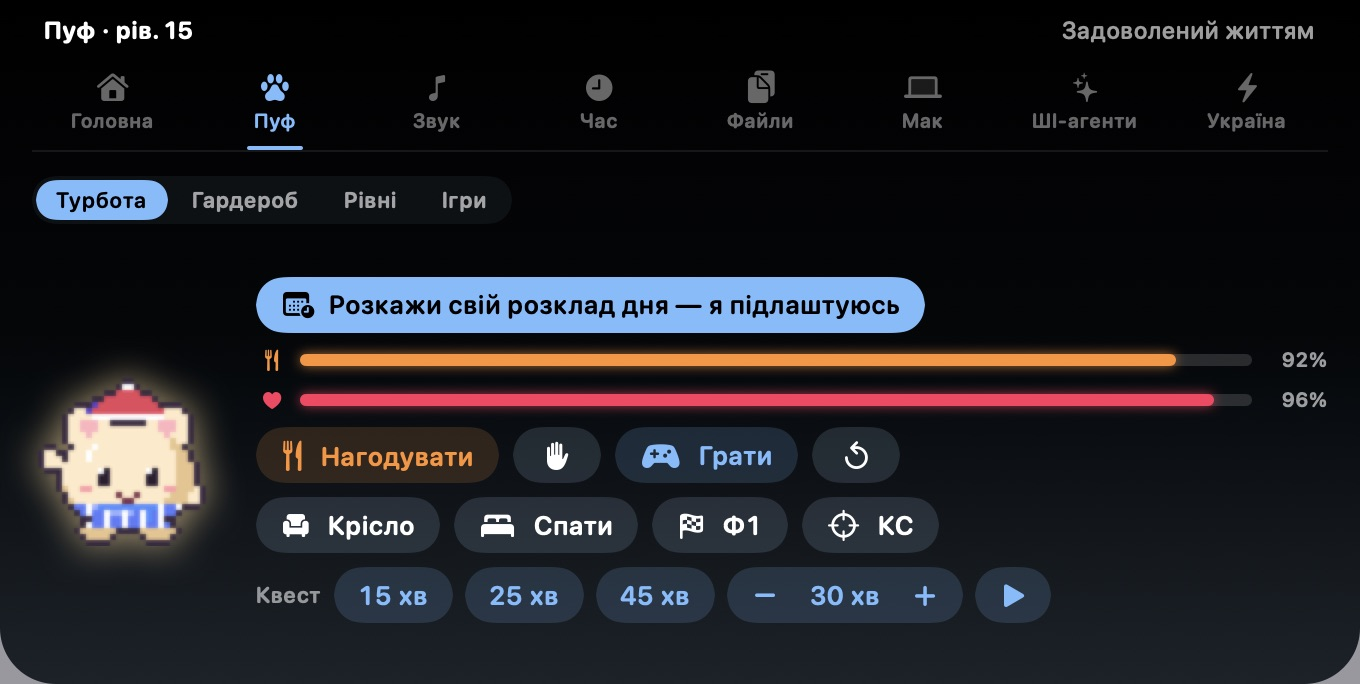
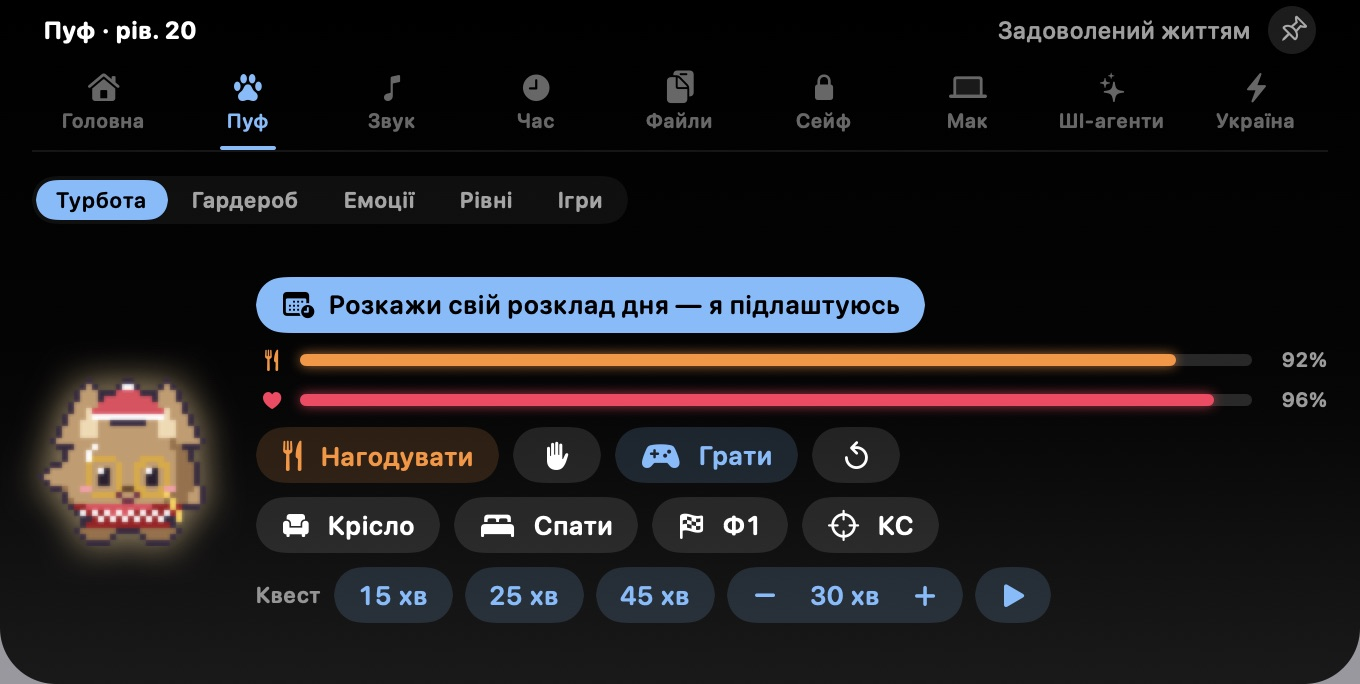
Vault section and tabs, emotions, 51 levels, a wardrobe for puffiks, holidays; new pictures

diff --git a/index.html b/index.html
@@ -132,6 +132,9 @@ kbd { font: 700 13px var(--body); color: var(--text); background: var(--raise); 
 .ua .shot { border-radius: 0 0 4.12% 4.12% / 0 0 8.19% 8.19%; overflow: hidden; background: #000; box-shadow: 0 0 0 1px var(--line); }
 .ua .shot img { display: block; width: 100%; height: auto; }
 
+/* Vault */
+.vault { background: linear-gradient(135deg, rgba(110, 180, 255, .16), rgba(70, 210, 160, .10)); grid-template-columns: minmax(0, 1.2fr) minmax(0, 1fr); }
+
 /* Privacy */
 .privacy { display: grid; grid-template-columns: minmax(0, 1fr) minmax(0, 1.3fr); gap: 32px; align-items: start; }
 .hosts { display: grid; gap: 10px; }
@@ -185,7 +188,7 @@ footer { color: var(--muted); font-size: 14px; display: flex; flex-wrap: wrap; g
     </div>
     <div class="head" style="align-items:center">
       <h1 id="title">Puff Island</h1>
-      <p class="lede" data-t="lede">Острів біля вирізу Мака, на якому живе Пуф. Наведи мишку на чубчик — і під рукою музика, таймер, календар, тривоги й графік світла.</p>
+      <p class="lede" data-t="lede">Острів біля вирізу Мака, на якому живе Пуф. Наведи мишку на чубчик — і під рукою музика, таймер, календар, сейф з картками й документами, тривоги й графік світла.</p>
     </div>
     <div class="cta">
       <a class="button" href="https://github.com/dmytromelinevskyi/Puff-releases/releases/latest/download/Puff-Island.dmg">
@@ -233,6 +236,22 @@ footer { color: var(--muted); font-size: 14px; display: flex; flex-wrap: wrap; g
     </div>
   </section>
 
+  <section aria-labelledby="vaultTitle">
+    <div class="ua vault">
+      <div class="shot"><img data-shot="vault-files" src="img/tabs/vault-files-uk.jpg" alt="Сейф на острові: зашифровані файли" width="1360" height="684" loading="lazy"></div>
+      <div class="head">
+        <span class="label" data-t="vaultLabel">Сейф</span>
+        <h2 id="vaultTitle" data-t="vaultTitle">Картки, реквізити й ключі — під рукою, але під замком</h2>
+        <ul>
+          <li><span class="dot"></span><div><b data-t="v1h">Відкривається відбитком</b><span data-t="v1p">Touch ID або пароль Мака. Сейф сам закривається за п’ять хвилин або разом з островом.</span></div></li>
+          <li><span class="dot"></span><div><b data-t="v2h">Копіюєш одним кліком</b><span data-t="v2p">Номер картки, IBAN, особовий рахунок — без пробілів і зайвого. Скопійоване не потрапляє в історію буфера.</span></div></li>
+          <li><span class="dot"></span><div><b data-t="v3h">Файли зашифровані</b><span data-t="v3p">Ключі, сертифікати й скани — під AES-256 і лише на цьому Маку. Перетягни файл на острів, а оригінал прибери в Кошик.</span></div></li>
+          <li><span class="dot"></span><div><b data-t="v4h">Не видно на скриншотах</b><span data-t="v4p">Вікно сейфа не потрапляє в скриншоти й демонстрацію екрана. CVV і PIN показуються лише після відбитка й ніколи не копіюються.</span></div></li>
+        </ul>
+      </div>
+    </div>
+  </section>
+
   <section aria-labelledby="extrasTitle">
     <div class="head">
       <span class="label" data-t="extrasLabel">Для Мака</span>
@@ -267,6 +286,9 @@ footer { color: var(--muted); font-size: 14px; display: flex; flex-wrap: wrap; g
       <div class="card"><span class="label" data-t="c4l">Файли</span><h3 data-t="c4h">Буфер, полиця, нотатки</h3><p data-t="c4p">Історія буфера обміну, полиця, куди кидаєш файли на потім, і швидкі нотатки.</p></div>
       <div class="card"><span class="label" data-t="c5l">Мак</span><h3 data-t="c5h">⌘Tab з вікнами і швидкі дії</h3><p data-t="c5p">Перемикач вікон з усіх робочих столів, пристрої, живлення, «не засинати» в один клік.</p></div>
       <div class="card"><span class="label" data-t="c6l">ШІ-агенти</span><h3 data-t="c6h">Claude і Codex на виду</h3><p data-t="c6p">Острів підсвічується, коли агент закінчив роботу або чекає на тебе.</p></div>
+      <div class="card"><span class="label" data-t="c7l">Сейф</span><h3 data-t="c7h">Картки, реквізити, документи</h3><p data-t="c7p">Комуналка, пошти, адреси, нотатки й файли — з теками, пошуком і відбитком.</p></div>
+      <div class="card"><span class="label" data-t="c8l">Гардероб</span><h3 data-t="c8h">Речі за пуфіки</h3><p data-t="c8p">Пуфіки дають за квести, дні з Пуфом, їжу й рівні. На них — 35 речей, від окулярів до реактивного ранця.</p></div>
+      <div class="card"><span class="label" data-t="c9l">Свята</span><h3 data-t="c9h">Свята й секрети</h3><p data-t="c9p">На Новий рік, Валентина, День Незалежності й Хелловін Пуф перевдягається сам. А ще є секретний образ — знайди його.</p></div>
     </div>
   </section>
 
@@ -274,7 +296,7 @@ footer { color: var(--muted); font-size: 14px; display: flex; flex-wrap: wrap; g
     <div class="head">
       <span class="label" data-t="puffLabel">Пуф</span>
       <h2 id="puffTitle" data-t="puffTitle">Пуф живе своїм життям</h2>
-      <p class="lede" data-t="puffText">Він їсть, спить, ховається під ковдру під час тривоги, слухає музику разом з тобою і росте: сорок рівнів, досягнення й гардероб.</p>
+      <p class="lede" data-t="puffText">Він їсть, спить, ховається під ковдру під час тривоги, слухає музику разом з тобою і росте: 51 рівень, 18 емоцій і гардероб, який купуєш за пуфіки.</p>
     </div>
     <div class="puffs">
       <div class="puff"><img class="px" src="img/puff-happy.png" alt=""><span data-t="m1">радіє</span></div>
@@ -285,6 +307,14 @@ footer { color: var(--muted); font-size: 14px; display: flex; flex-wrap: wrap; g
       <div class="puff"><img class="px" src="img/puff-hot.png" alt=""><span data-t="m6">Мак перегрівся</span></div>
       <div class="puff"><img class="px" src="img/puff-racing.png" alt=""><span data-t="m7">у фокусі</span></div>
       <div class="puff"><img class="px" src="img/puff-sleeping.png" alt=""><span data-t="m8">спить</span></div>
+      <div class="puff"><img class="px" src="img/puff-love.png" alt=""><span data-t="n1">закохався</span></div>
+      <div class="puff"><img class="px" src="img/puff-laughing.png" alt=""><span data-t="n2">сміється</span></div>
+      <div class="puff"><img class="px" src="img/puff-surprised.png" alt=""><span data-t="n3">здивувався</span></div>
+      <div class="puff"><img class="px" src="img/puff-posing.png" alt=""><span data-t="n4">позує для скриншота</span></div>
+      <div class="puff"><img class="px" src="img/puff-dancing.png" alt=""><span data-t="n5">танцює в п’ятницю</span></div>
+      <div class="puff"><img class="px" src="img/puff-sneezing.png" alt=""><span data-t="n6">чхає</span></div>
+      <div class="puff"><img class="px" src="img/puff-clapping.png" alt=""><span data-t="n7">аплодує Claude</span></div>
+      <div class="puff"><img class="px" src="img/puff-proud.png" alt=""><span data-t="n8">пишається</span></div>
       <div class="puff"><img class="px" src="img/look-king.png" alt=""><span data-t="l1">король</span></div>
       <div class="puff"><img class="px" src="img/look-wizard.png" alt=""><span data-t="l2">чарівник</span></div>
       <div class="puff"><img class="px" src="img/look-surfer.png" alt=""><span data-t="l3">серфер</span></div>
@@ -316,7 +346,7 @@ footer { color: var(--muted); font-size: 14px; display: flex; flex-wrap: wrap; g
     <div class="head">
       <span class="label" data-t="privLabel">Приватність</span>
       <h2 id="privacyTitle" data-t="privTitle">Твоє лишається на твоєму Маку</h2>
-      <p class="lede" data-t="privText">Улюбленець, нотатки, буфер обміну й налаштування зберігаються лише на цьому Маку. Без реєстрації, статистики й реклами. В інтернет Пуф ходить тільки сюди:</p>
+      <p class="lede" data-t="privText">Улюбленець, нотатки, буфер обміну й налаштування зберігаються лише на цьому Маку. Сейф — у Зв’язці ключів без iCloud, файли в ньому зашифровані. Без реєстрації, статистики й реклами. В інтернет Пуф ходить тільки сюди:</p>
     </div>
     <div class="hosts">
       <div class="host"><b data-t="h1h">Оновлення</b><span data-t="h1p">GitHub: чи вийшла нова версія. Про тебе нічого не передається.</span></div>
@@ -359,7 +389,7 @@ footer { color: var(--muted); font-size: 14px; display: flex; flex-wrap: wrap; g
 <script>
 const text = {
   uk: {
-    lede: "Острів біля вирізу Мака, на якому живе Пуф. Наведи мишку на чубчик — і під рукою музика, таймер, календар, тривоги й графік світла.",
+    lede: "Острів біля вирізу Мака, на якому живе Пуф. Наведи мишку на чубчик — і під рукою музика, таймер, календар, сейф з картками й документами, тривоги й графік світла.",
     download: "Завантажити для Mac", free: "Безкоштовно", signed: "Підписано Apple",
     islandLabel: "Острів", islandTitle: "Усе, що треба, — у вирізі над робочим столом",
     tabHome: "Головна", tabMusic: "Музика", tabTime: "Час", tabRates: "Курс НБУ",
@@ -370,8 +400,17 @@ const text = {
     c4l: "Файли", c4h: "Буфер, полиця, нотатки", c4p: "Історія буфера обміну, полиця, куди кидаєш файли на потім, і швидкі нотатки.",
     c5l: "Мак", c5h: "⌘Tab з вікнами і швидкі дії", c5p: "Перемикач вікон з усіх робочих столів, пристрої, живлення, «не засинати» в один клік.",
     c6l: "ШІ-агенти", c6h: "Claude і Codex на виду", c6p: "Острів підсвічується, коли агент закінчив роботу або чекає на тебе.",
+    c7l: "Сейф", c7h: "Картки, реквізити, документи", c7p: "Комуналка, пошти, адреси, нотатки й файли — з теками, пошуком і відбитком.",
+    c8l: "Гардероб", c8h: "Речі за пуфіки", c8p: "Пуфіки дають за квести, дні з Пуфом, їжу й рівні. На них — 35 речей, від окулярів до реактивного ранця.",
+    c9l: "Свята", c9h: "Свята й секрети", c9p: "На Новий рік, Валентина, День Незалежності й Хелловін Пуф перевдягається сам. А ще є секретний образ — знайди його.",
+    n1: "закохався", n2: "сміється", n3: "здивувався", n4: "позує для скриншота", n5: "танцює в п’ятницю", n6: "чхає", n7: "аплодує Claude", n8: "пишається",
+    vaultLabel: "Сейф", vaultTitle: "Картки, реквізити й ключі — під рукою, але під замком",
+    v1h: "Відкривається відбитком", v1p: "Touch ID або пароль Мака. Сейф сам закривається за п’ять хвилин або разом з островом.",
+    v2h: "Копіюєш одним кліком", v2p: "Номер картки, IBAN, особовий рахунок — без пробілів і зайвого. Скопійоване не потрапляє в історію буфера.",
+    v3h: "Файли зашифровані", v3p: "Ключі, сертифікати й скани — під AES-256 і лише на цьому Маку. Перетягни файл на острів, а оригінал прибери в Кошик.",
+    v4h: "Не видно на скриншотах", v4p: "Вікно сейфа не потрапляє в скриншоти й демонстрацію екрана. CVV і PIN показуються лише після відбитка й ніколи не копіюються.",
     puffLabel: "Пуф", puffTitle: "Пуф живе своїм життям",
-    puffText: "Він їсть, спить, ховається під ковдру під час тривоги, слухає музику разом з тобою і росте: сорок рівнів, досягнення й гардероб.",
+    puffText: "Він їсть, спить, ховається під ковдру під час тривоги, слухає музику разом з тобою і росте: 51 рівень, 18 емоцій і гардероб, який купуєш за пуфіки.",
     m1: "радіє", m2: "їсть", m3: "слухає музику", m4: "тримає Мак без сну", m5: "ховається від тривоги", m6: "Мак перегрівся", m7: "у фокусі", m8: "спить",
     l1: "король", l2: "чарівник", l3: "серфер", l4: "панда", l5: "кіберпуф", l6: "Санта", l7: "єдиноріг", l8: "дракон",
     uaLabel: "Україна", uaTitle: "Зроблено в Україні — і для України",
@@ -380,7 +419,7 @@ const text = {
     u3h: "Курс НБУ", u3p: "Будь-яка валюта на будь-який день з 1996 року, зміна за день і графік за місяць.",
     u4h: "Податки ФОП", u4p: "Пуф нагадає про єдиний податок, військовий збір і ЄСВ за п’ять днів до строку.",
     privLabel: "Приватність", privTitle: "Твоє лишається на твоєму Маку",
-    privText: "Улюбленець, нотатки, буфер обміну й налаштування зберігаються лише на цьому Маку. Без реєстрації, статистики й реклами. В інтернет Пуф ходить тільки сюди:",
+    privText: "Улюбленець, нотатки, буфер обміну й налаштування зберігаються лише на цьому Маку. Сейф — у Зв’язці ключів без iCloud, файли в ньому зашифровані. Без реєстрації, статистики й реклами. В інтернет Пуф ходить тільки сюди:",
     h1h: "Оновлення", h1p: "GitHub: чи вийшла нова версія. Про тебе нічого не передається.",
     h2h: "Тривоги", h2p: "siren.pp.ua та ubilling.net.ua: загальний список тривог. Твоя область лишається на Маку.",
     h3h: "Світло", h3p: "YASNO отримує вулицю й будинок, які ти вказав, щоб надіслати графік.",
@@ -414,7 +453,7 @@ const text = {
     x12h: "Яскравість і Bluetooth", x12p: "Клавіші яскравості керують зовнішнім монітором під мишкою. Bluetooth вимикається, поки Мак спить, а «Музика» не запускається сама."
   },
   en: {
-    lede: "An island at your Mac’s notch, and Puff lives on it. Move the mouse to the notch for music, a timer, your calendar, air-raid alerts and power schedules.",
+    lede: "An island at your Mac’s notch, and Puff lives on it. Move the mouse to the notch for music, a timer, your calendar, a vault for cards and documents, air-raid alerts and power schedules.",
     download: "Download for Mac", free: "Free", signed: "Signed by Apple",
     islandLabel: "The island", islandTitle: "What you need, right in the notch above your desktop",
     tabHome: "Home", tabMusic: "Music", tabTime: "Time", tabRates: "NBU rates",
@@ -425,8 +464,17 @@ const text = {
     c4l: "Files", c4h: "Clipboard, shelf, notes", c4p: "Clipboard history, a shelf to drop files on for later, and quick notes.",
     c5l: "Mac", c5h: "⌘Tab with windows and quick actions", c5p: "A switcher with windows from every desktop, devices, power, keep-awake in one click.",
     c6l: "AI agents", c6h: "Claude and Codex in sight", c6p: "The island lights up when an agent finishes or is waiting for you.",
+    c7l: "Vault", c7h: "Cards, bank details, documents", c7p: "Utility accounts, emails, addresses, notes and files, with folders, search and your fingerprint.",
+    c8l: "Wardrobe", c8h: "Things for puffiks", c8p: "Puffiks come from quests, days with Puff, meals and levels. Spend them on 35 things, from glasses to a jetpack.",
+    c9l: "Holidays", c9h: "Holidays and secrets", c9p: "On New Year, Valentine’s Day, Independence Day and Halloween Puff dresses up by himself. And there’s a secret look — find it.",
+    n1: "in love", n2: "laughing", n3: "surprised", n4: "posing for a screenshot", n5: "Friday dance", n6: "sneezing", n7: "cheering Claude", n8: "proud",
+    vaultLabel: "Vault", vaultTitle: "Cards, bank details and keys — at hand, under lock",
+    v1h: "Opens with your fingerprint", v1p: "Touch ID or your Mac’s password. The vault locks itself after five minutes or when the island closes.",
+    v2h: "Copy in one click", v2p: "A card number, an IBAN, an account number — without spaces or extras. Copies stay out of the clipboard history.",
+    v3h: "Files are encrypted", v3p: "Keys, certificates and scans under AES-256, only on this Mac. Drag a file onto the island and move the original to the Trash.",
+    v4h: "Invisible in screenshots", v4p: "The vault never shows up in screenshots or screen sharing. CVV and PIN appear only after your fingerprint and are never copied.",
     puffLabel: "Puff", puffTitle: "Puff has a life of his own",
-    puffText: "He eats, sleeps, hides under a blanket during an alert, listens to music with you and grows: forty levels, achievements and a wardrobe.",
+    puffText: "He eats, sleeps, hides under a blanket during an alert, listens to music with you and grows: 51 levels, 18 emotions and a wardrobe you buy with puffiks.",
     m1: "happy", m2: "eating", m3: "listening", m4: "keeping the Mac awake", m5: "hiding from an alert", m6: "the Mac is hot", m7: "in focus", m8: "asleep",
     l1: "king", l2: "wizard", l3: "surfer", l4: "panda", l5: "cyber Puff", l6: "Santa", l7: "unicorn", l8: "dragon",
     uaLabel: "Ukraine", uaTitle: "Made in Ukraine, for Ukraine",
@@ -435,7 +483,7 @@ const text = {
     u3h: "NBU exchange rates", u3p: "Any currency on any day since 1996, the change in a day and the month as a chart.",
     u4h: "Sole-proprietor taxes", u4p: "Puff reminds you about the single tax, military levy and social contribution five days before the deadline.",
     privLabel: "Privacy", privTitle: "Yours stays on your Mac",
-    privText: "The pet, notes, clipboard and settings are kept only on this Mac. No sign-up, no statistics, no ads. Puff goes online only for this:",
+    privText: "The pet, notes, clipboard and settings are kept only on this Mac. The vault lives in the Keychain without iCloud, and its files are encrypted. No sign-up, no statistics, no ads. Puff goes online only for this:",
     h1h: "Updates", h1p: "GitHub: whether a new version is out. Nothing about you is sent.",
     h2h: "Alerts", h2p: "siren.pp.ua and ubilling.net.ua: the list of alerts. Your region stays on your Mac.",
     h3h: "Power", h3p: "YASNO gets the street and house you entered, to send the schedule.",
@@ -476,8 +524,9 @@ const sections = [
       en: ["Home", "Home, built from blocks", "Power, quick buttons, clock, calendar, Mac status, music: arrange Home yourself. Every block comes small, wide, tall or large."] } ] },
   { id: "puff", uk: "Пуф", en: "Puff", tabs: [
     { id: "pet", uk: ["Турбота", "Турбота про Пуфа", "Нагодуй, погладь, пограй або відправ Пуфа на квест: 25 хвилин фокусу без відволікань."], en: ["Care", "Taking care of Puff", "Feed him, pet him, play, or send Puff on a quest: 25 minutes of focus without distractions."] },
-    { id: "wardrobe", uk: ["Гардероб", "Шапки й костюми", "Вбрання відкриваються за рівні й досягнення. Пуф носить їх і на острові, і на робочому столі."], en: ["Wardrobe", "Hats and costumes", "Outfits unlock with levels and achievements. Puff wears them on the island and on the desktop."] },
-    { id: "levels", uk: ["Рівні", "Сорок рівнів", "Кожен рівень відкриває новий образ: за фокус, музику, ігри та інші справи з Пуфом."], en: ["Levels", "Forty levels", "Each level unlocks a new look: for focus, music, games and other things you do with Puff."] },
+    { id: "wardrobe", uk: ["Гардероб", "Гардероб за пуфіки", "Пуфіки дають за фокус-квести, дні з Пуфом, їжу й нові рівні. Витрачай їх на шапки, окуляри, вбрання й речі в лапках — і приміряй перед покупкою."], en: ["Wardrobe", "A wardrobe for puffiks", "Puffiks come from focus quests, days with Puff, meals and new levels. Spend them on hats, glasses, outfits and things to hold, and try them on before you buy."] },
+    { id: "emotions", uk: ["Емоції", "Вісімнадцять емоцій", "Пуф дивується, сміється, танцює в п’ятницю й позує, коли робиш скриншот. Під кожною емоцією написано, як її викликати."], en: ["Emotions", "Eighteen emotions", "Puff gets surprised, laughs, dances on Fridays and poses when you take a screenshot. Each emotion says how to make it happen."] },
+    { id: "levels", uk: ["Рівні", "51 рівень", "Кожен рівень відкриває новий образ: за фокус, музику, ігри, покупки й емоції. А один рівень — секретний."], en: ["Levels", "51 levels", "Each level unlocks a new look: for focus, music, games, shopping and emotions. And one level is a secret."] },
     { id: "games", uk: ["Ігри", "П’ять міні-ігор", "Ловити смаколики, знайти пару, стрибки, реакція і змійка — прямо в острові. Рекорди піднімають Пуфу настрій."], en: ["Games", "Five mini games", "Catch the treats, find the pair, jumps, reaction and snake, right in the island. Records cheer Puff up."] } ] },
   { id: "sound", uk: "Звук", en: "Sound", tabs: [
     { id: "music", uk: ["Музика", "Музика без перемикання вікон", "Що грає в Spotify чи Музиці, перемотка, гучність, вихід звуку і текст пісні, що біжить разом із треком."], en: ["Music", "Music without switching windows", "What’s playing in Spotify or Music, seeking, volume, audio output and lyrics that scroll with the song."] },
@@ -491,6 +540,11 @@ const sections = [
     { id: "shelf", uk: ["Полиця", "Полиця для файлів", "Перетягни файли на острів — Пуф потримає їх, поки не знадобляться."], en: ["Shelf", "A shelf for files", "Drag files onto the island and Puff holds them until you need them."] },
     { id: "notes", uk: ["Нотатки", "Швидкі нотатки", "Записав — і закрив. Нотатки зберігаються самі."], en: ["Notes", "Quick notes", "Write it down and close it. Notes save themselves."] },
     { id: "notifications", uk: ["Сповіщення", "Пропущені сповіщення", "Банери, які ти не встиг прочитати. Лише в пам’яті: коли Мак блокується, список стирається."], en: ["Notifications", "Missed notifications", "Banners you didn’t get to read. Kept only in memory and cleared when the Mac locks."] } ] },
+  { id: "vault", uk: "Сейф", en: "Vault", tabs: [
+    { id: "vault-cards", uk: ["Картки", "Картки під замком", "Номер видно лише останніми цифрами. Копіюй номер або все одразу — термін і ім’я, але ніколи CVV і PIN."], en: ["Cards", "Cards under lock", "Only the last digits show. Copy the number or everything at once — the date and name, but never the CVV or PIN."] },
+    { id: "vault-bank", uk: ["Реквізити", "Реквізити для оплати", "IBAN, отримувач, ЄДРПОУ й банк. IBAN копіюється без пробілів, як того хоче банківська програма."], en: ["Bank details", "Bank details for payments", "IBAN, recipient, tax ID and bank. The IBAN is copied without spaces, the way banking apps want it."] },
+    { id: "vault-utilities", uk: ["Комуналка", "Комунальні рахунки", "Особові рахунки, розкладені по теках за містами. Скопіюй рахунок — і встав у застосунок банку."], en: ["Utilities", "Utility accounts", "Account numbers sorted into folders by city. Copy the account and paste it into your banking app."] },
+    { id: "vault-files", uk: ["Файли", "Зашифровані файли", "Ключі, сертифікати й скани — під AES-256 і лише на цьому Маку. Переглянь просто в острові або витягни мишкою в Finder."], en: ["Files", "Encrypted files", "Keys, certificates and scans under AES-256, only on this Mac. Preview them right in the island or drag them out to Finder."] } ] },
   { id: "mac", uk: "Мак", en: "Mac", tabs: [
     { id: "mac", uk: ["Монітор", "Стан Мака", "Процесор, відеокарта, пам’ять, мережа, батарея і вільне місце."], en: ["Monitor", "Your Mac’s state", "CPU, GPU, memory, network, battery and free space."] },
     { id: "power", uk: ["Живлення", "Батарея й енергія", "Заряд, графік за шість годин і програми, які найбільше їдять батарею."], en: ["Power", "Battery and energy", "Charge, the last six hours as a chart and the apps that drain the battery most."] },
